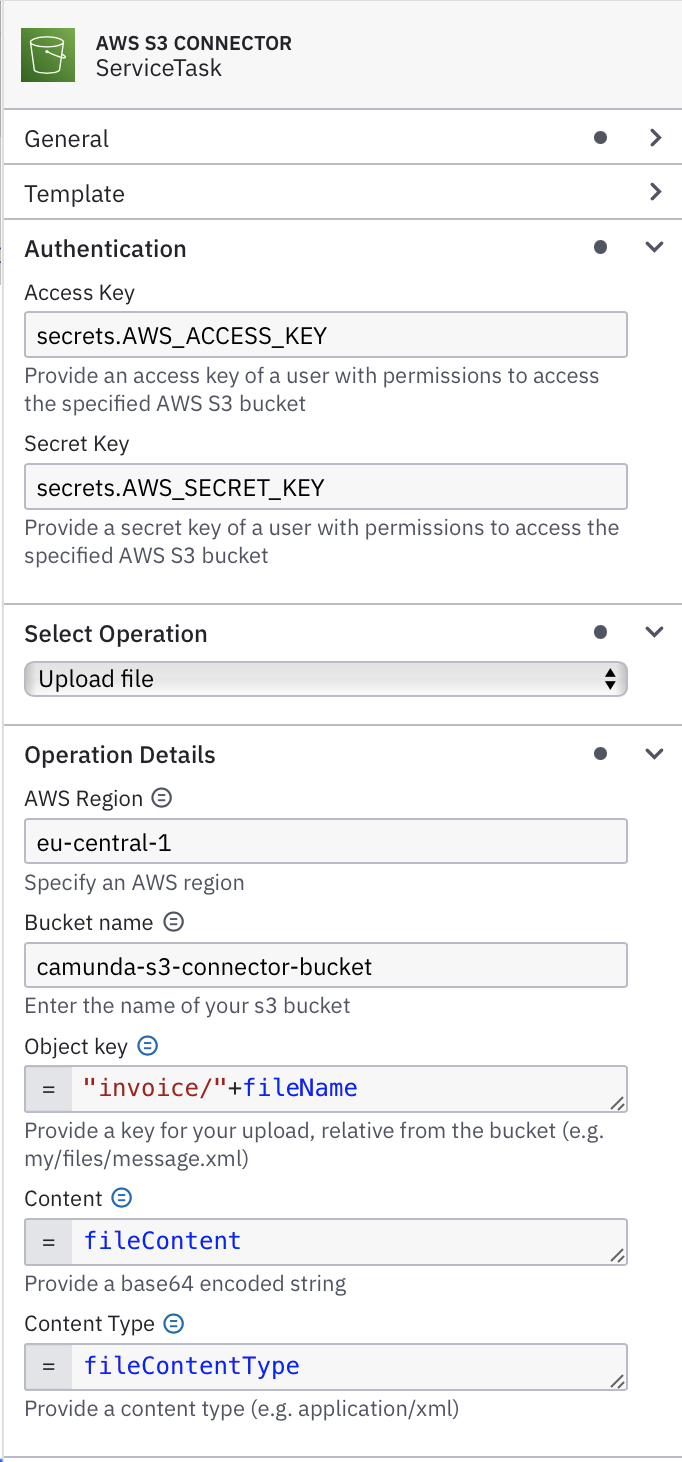
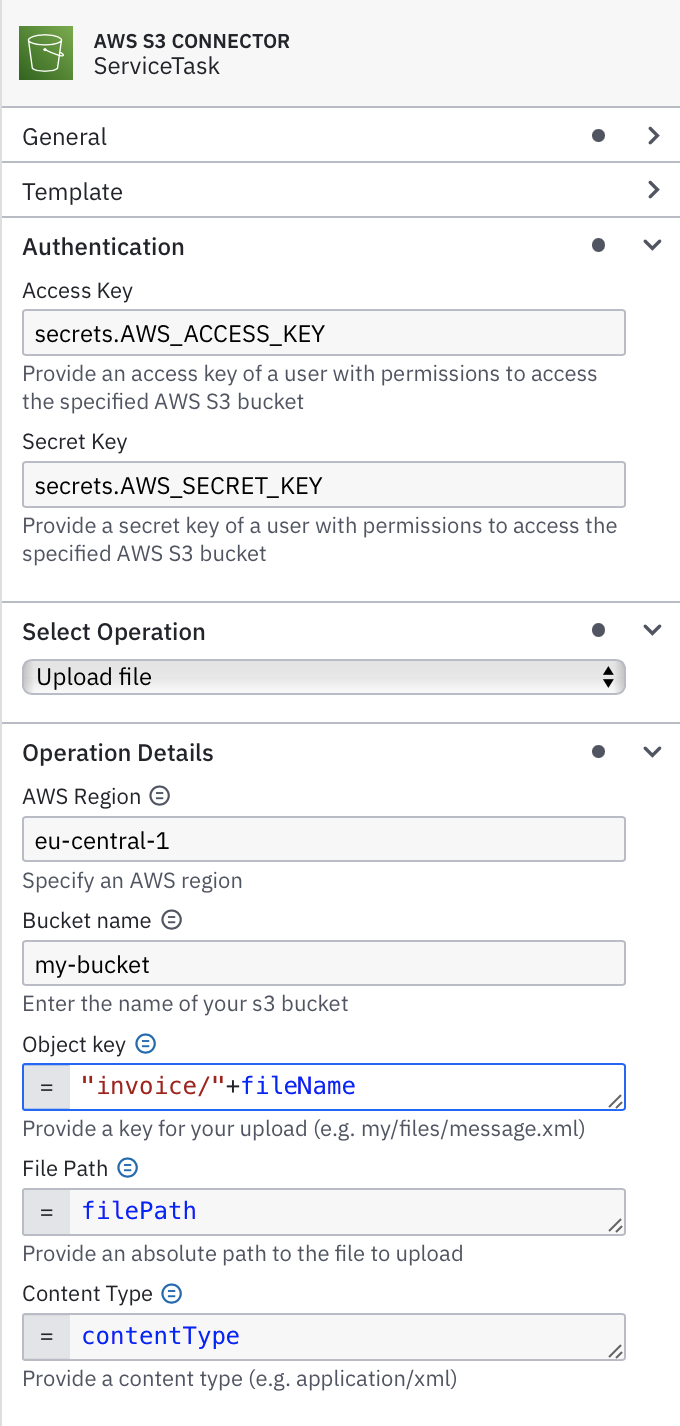
load file content from local file instead of a process variable
process variables are limited in size

diff --git a/src/main/java/de/novatec/bpm/camunda/connector/aws/s3/service/S3Service.java b/src/main/java/de/novatec/bpm/camunda/connector/aws/s3/service/S3Service.java
@@ -10,14 +10,17 @@ import com.amazonaws.services.s3.model.PutObjectResult;
 import de.novatec.bpm.camunda.connector.aws.s3.model.AuthenticationRequestData;
 import de.novatec.bpm.camunda.connector.aws.s3.model.ConnectorResponse;
 import de.novatec.bpm.camunda.connector.aws.s3.model.RequestDetails;
+import org.slf4j.Logger;
+import org.slf4j.LoggerFactory;
 
-import java.io.ByteArrayInputStream;
-import java.util.Base64;
+import java.io.*;
 import java.util.Objects;
 
 public class S3Service {
 
+    private static final Logger logger = LoggerFactory.getLogger(S3Service.class);
     private final AmazonS3 s3Client;
+
 
     public S3Service(AuthenticationRequestData authentication, String region) {
         s3Client = getClient(authentication, region);
@@ -39,21 +42,26 @@ public class S3Service {
         return new ConnectorResponse();
     }
 
-    public ConnectorResponse putObject(RequestDetails details) {
-        String content = Objects.requireNonNull(details.getContent(), "Content variable is required for operation PUT");
-        byte[] objectBytes = Base64.getDecoder().decode(content.getBytes());
-        ObjectMetadata objectMetadata = new ObjectMetadata();
-        objectMetadata.setContentLength(objectBytes.length);
-        objectMetadata.setContentType(Objects.requireNonNull(details.getContentType(), "Content type variable is required for operation PUT"));
-        objectMetadata.setSSEAlgorithm(ObjectMetadata.AES_256_SERVER_SIDE_ENCRYPTION);
-        PutObjectRequest putRequest = new PutObjectRequest(
-                details.getBucketName(),
-                details.getObjectKey(),
-                new ByteArrayInputStream(objectBytes),
-                objectMetadata
-        );
-        PutObjectResult putObjectResult = s3Client.putObject(putRequest);
-        return new ConnectorResponse(putObjectResult);
+    public ConnectorResponse putObject(RequestDetails details) throws IOException {
+        String filePath = Objects.requireNonNull(details.getFilePath(), "File path variable is required for operation PUT");
+        try (FileInputStream fis = new FileInputStream(filePath)) {
+            byte[] objectBytes = fis.readAllBytes();
+            ObjectMetadata objectMetadata = new ObjectMetadata();
+            objectMetadata.setContentLength(objectBytes.length);
+            objectMetadata.setContentType(Objects.requireNonNull(details.getContentType(), "Content type variable is required for operation PUT"));
+            objectMetadata.setSSEAlgorithm(ObjectMetadata.AES_256_SERVER_SIDE_ENCRYPTION);
+            logger.debug("object metadata {}", objectMetadata);
+            PutObjectRequest putRequest = new PutObjectRequest(
+                    details.getBucketName(),
+                    details.getObjectKey(),
+                    new ByteArrayInputStream(objectBytes),
+                    objectMetadata
+            );
+            logger.debug("request {}", putRequest);
+            PutObjectResult putObjectResult = s3Client.putObject(putRequest);
+            logger.debug("response {}", putObjectResult);
+            return new ConnectorResponse(putObjectResult);
+        }
     }
 
 }

diff --git a/src/main/java/de/novatec/bpm/camunda/connector/aws/s3/S3ConnectorFunction.java b/src/main/java/de/novatec/bpm/camunda/connector/aws/s3/S3ConnectorFunction.java
@@ -9,6 +9,8 @@ import de.novatec.bpm.camunda.connector.aws.s3.model.ConnectorResponse;
 import org.slf4j.Logger;
 import org.slf4j.LoggerFactory;
 
+import java.io.IOException;
+
 @OutboundConnector(
         name = "AWSS3",
         inputVariables = {"authentication", "requestDetails"},
@@ -21,7 +23,7 @@ public class S3ConnectorFunction implements OutboundConnectorFunction {
     }
 
     @Override
-    public Object execute(OutboundConnectorContext context) {
+    public Object execute(OutboundConnectorContext context) throws IOException {
         var request = context.getVariablesAsType(ConnectorRequest.class);
         logger.info("Executing connector with request {}", request);
         context.validate(request);
@@ -29,7 +31,7 @@ public class S3ConnectorFunction implements OutboundConnectorFunction {
         return execute(request);
     }
 
-    private ConnectorResponse execute(ConnectorRequest request) {
+    private ConnectorResponse execute(ConnectorRequest request) throws IOException {
         S3Service service = new S3Service(request.getAuthentication(), request.getRequestDetails().getRegion());
         return switch (request.getRequestDetails().getOperationType()) {
             case delete -> service.deleteObject(request.getRequestDetails());

diff --git a/src/main/java/de/novatec/bpm/camunda/connector/aws/s3/model/RequestDetails.java b/src/main/java/de/novatec/bpm/camunda/connector/aws/s3/model/RequestDetails.java
@@ -8,7 +8,7 @@ public class RequestDetails {
   private String bucketName;
   @NotEmpty
   private String objectKey;
-  private String content;
+  private String filePath;
   @NotEmpty
   private String region;
   private OperationType operationType;
@@ -31,12 +31,12 @@ public class RequestDetails {
     this.objectKey = objectKey;
   }
 
-  public String getContent() {
-    return content;
+  public String getFilePath() {
+    return filePath;
   }
 
-  public void setContent(String content) {
-    this.content = content;
+  public void setFilePath(String filePath) {
+    this.filePath = filePath;
   }
 
   public String getContentType() {
@@ -68,7 +68,7 @@ public class RequestDetails {
     return "RequestDetails{" +
             "bucketName='" + bucketName + '\'' +
             ", objectKey='" + objectKey + '\'' +
-            ", content=[REDACTED]" +
+            ", filePath='" + filePath + '\'' +
             ", region='" + region + '\'' +
             ", operationType=" + operationType +
             ", contentType='" + contentType + '\'' +

diff --git a/README.md b/README.md
@@ -6,16 +6,16 @@ Camunda Outbound Connector to interact with the content of an S3 bucket
 
 ### Connector configuration
 
-|name         |description                                                      |example                    |
-|-------------|-----------------------------------------------------------------|---------------------------|
-|accessKey    |the AWS access key for the authorized user                       |`secrets.AWS_ACCESS_KEY`   |
-|secretKey    |the AWS secret key for the authorized user                       |`secrets.AWS_SECRET_KEY`   |
-|region       |the AWS region of your S3 bucket                                 |eu-central-1               |
-|bucketName   |the name of the S3 bucket                                        |camunda-s3-connector-bucket|
-|objectKey    |path + file name in the s3 bucket                                |`="invoice/"+fileName`     |
-|operationType|upload or delete                                                 |                           |
-|content      |base64 encoded string or feel expression representing the content|`=fileContent`             |
-|contentType  |the content type of the content                                  |`=fileContentType`         |
+| name          | description                                | example                     |
+|---------------|--------------------------------------------|-----------------------------|
+| accessKey     | the AWS access key for the authorized user | `secrets.AWS_ACCESS_KEY`    |
+| secretKey     | the AWS secret key for the authorized user | `secrets.AWS_SECRET_KEY`    |
+| region        | the AWS region of your S3 bucket           | eu-central-1                |
+| bucketName    | the name of the S3 bucket                  | camunda-s3-connector-bucket |
+| objectKey     | path + file name in the s3 bucket          | `="invoice/"+fileName`      |
+| operationType | upload or delete                           |                             |
+| filePath      | absolute path to the file to upload        | `=filePath`                 |
+| contentType   | the content type of the content            | `=contentType`              |
 
 NOTE: please do not put secrets directly into your configuration. Please use the [secret provider mechanism](https://docs.camunda.io/docs/components/connectors/use-connectors/#using-secrets) provided by camunda 8
 
@@ -49,25 +49,20 @@ NOTE: please do not put secrets directly into your configuration. Please use the
 ## Runtime
 
 ### How to generate content?
-The upload is done by converting the content from base64 string to a byte array input stream. You can e.g. use a `JobWorker` to generate a pdf and
-convert the content to a base64 encoded string and save it to a process variable `pdfContent`. Now you can reference it with a FEEL expression in the `content` 
-configuration of the connector.
+The upload is done by resolving a local path to a `File`. Since a process variable is currently limited in size to approx. 
+2-4MB (there are some Zeebe chaos engineering tests) the file content should stay in the connector runtime. You can e.g. 
+use a `JobWorker` to generate a file and store it in a `/tmp` folder. You can then get the path and set it into a `filePath` 
+variable, which you then can reference with a FEEL expression in the `file path` configuration of the connector:
 
 ```java
-// read pdf as bytes
-byte[] invoiceBytes = Files.readAllBytes(Paths.get("tmp/invoice.pdf)); 
-
-// encode in base64
-byte[] encoded = java.util.Base64.getEncoder().encode(invoiceBytes);
-String base64String = new String(encoded);
+// generate file
+File file = pdfService.generate(orderData);
 
 // set as variables to be picked up by connector
-variableHandler.setVariable("fileContent", base64String)
-variableHandler.setVariable("fileContentType", "application/pdf")
-variableHandler.setVariable("fileName", "invoice.pdf")
+variableHandler.setVariable("fileName", String.format("invoice-%s.pdf", orderData.getInvoiceId));
+variableHandler.setVariable("filePath", file.getAbsolutePath());
+variableHandler.setVariable("contentType", "application/pdf");
 ```
-
-**Attention: Since the file content is a process variable its size is currently limited to approx. 4MB**
 
 ## Example process
 ![process.png](assets/process.png)
